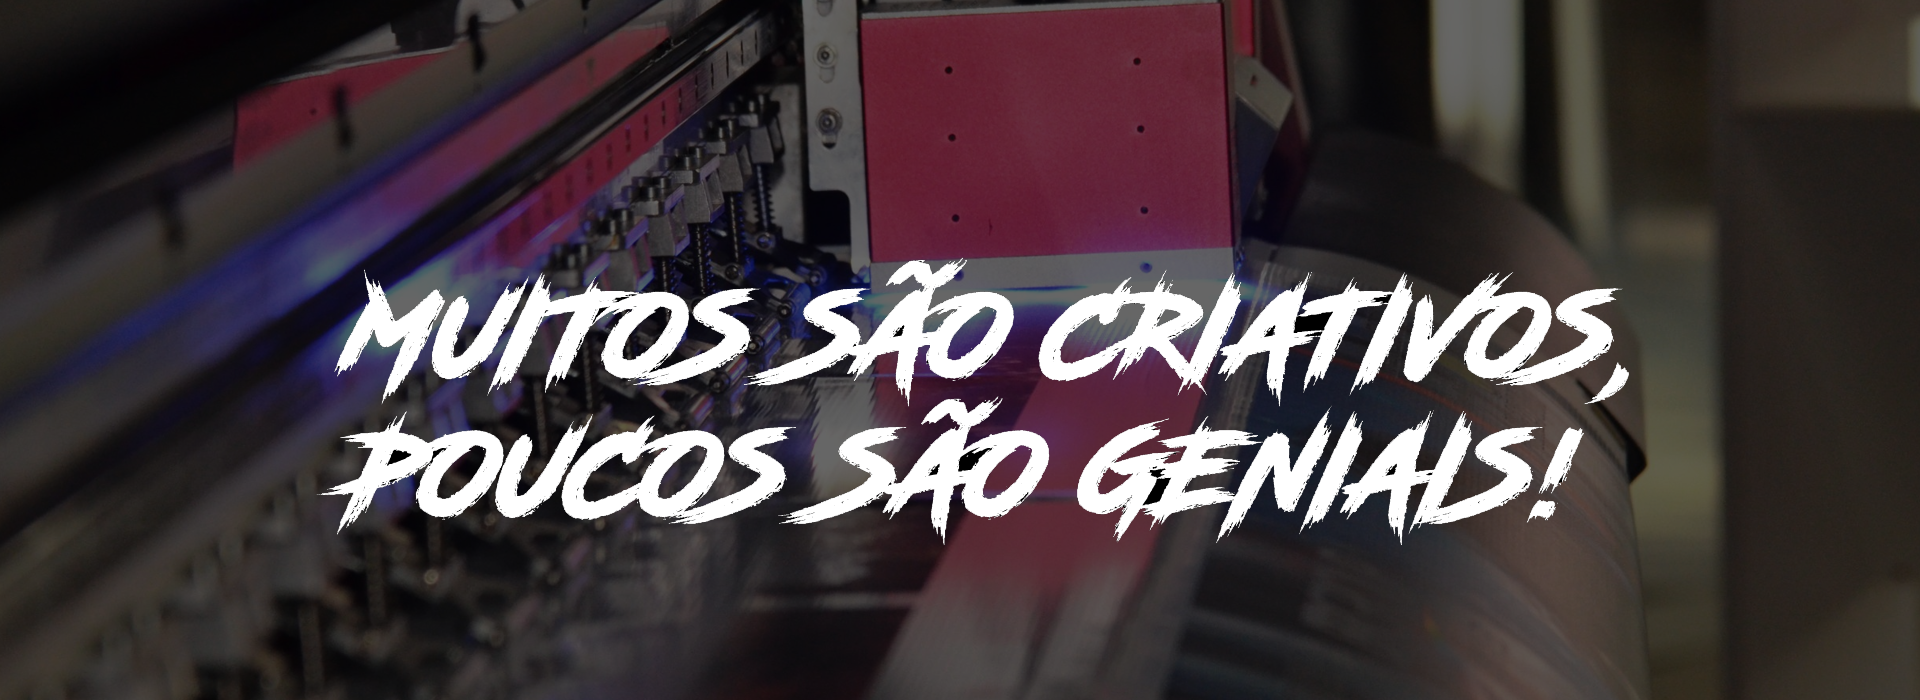
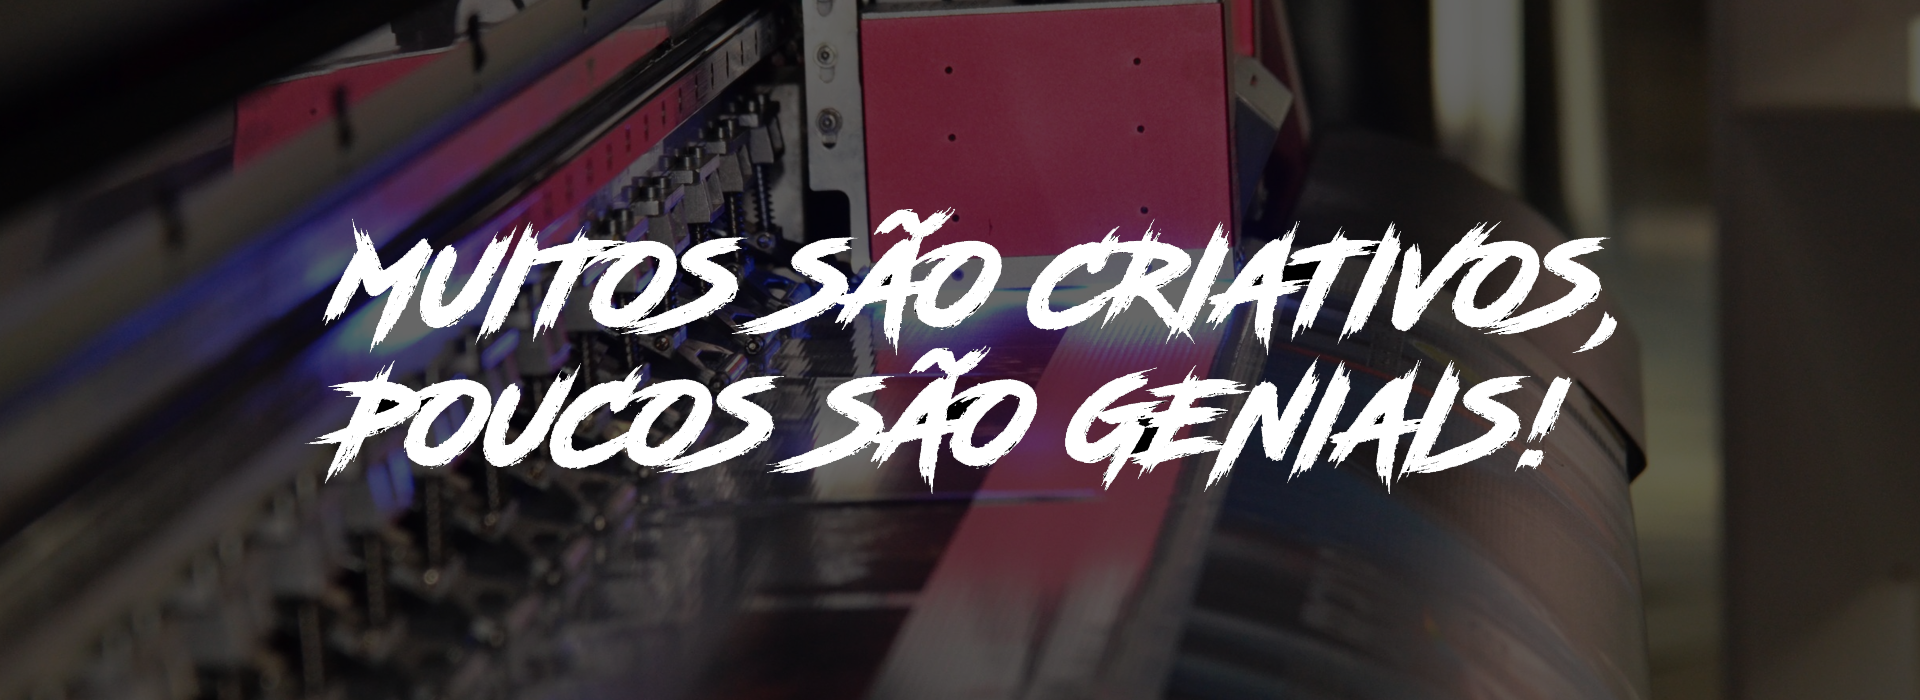
feat main
add backgroundMain + ClientCarrosel

Changed region(s): [[0.1562, 0.3, 0.8438, 0.78]]

diff --git a/style.css b/style.css
@@ -41,3 +41,17 @@ header{
     background-color: #3F4345;
     border-bottom: 5px solid #2C2F30;
 }
+
+.imgBackgrond{
+    display: flex;
+    align-items: center;
+    justify-content: center;
+}
+.imgBackgrond>img{
+    height: 550px;
+    width: 100%;
+}
+.client-carrosel{
+    background-color: black;
+    height: 100px;
+}

diff --git a/index.html b/index.html
@@ -20,5 +20,9 @@
             </div>
         </div>
     </header>
+        <main>
+            <div class="imgBackgrond"><img src="assets/backgrond.png" alt=""></div>
+            <div class="client-carrosel"></div>
+        </main>
 </body>
 </html>
